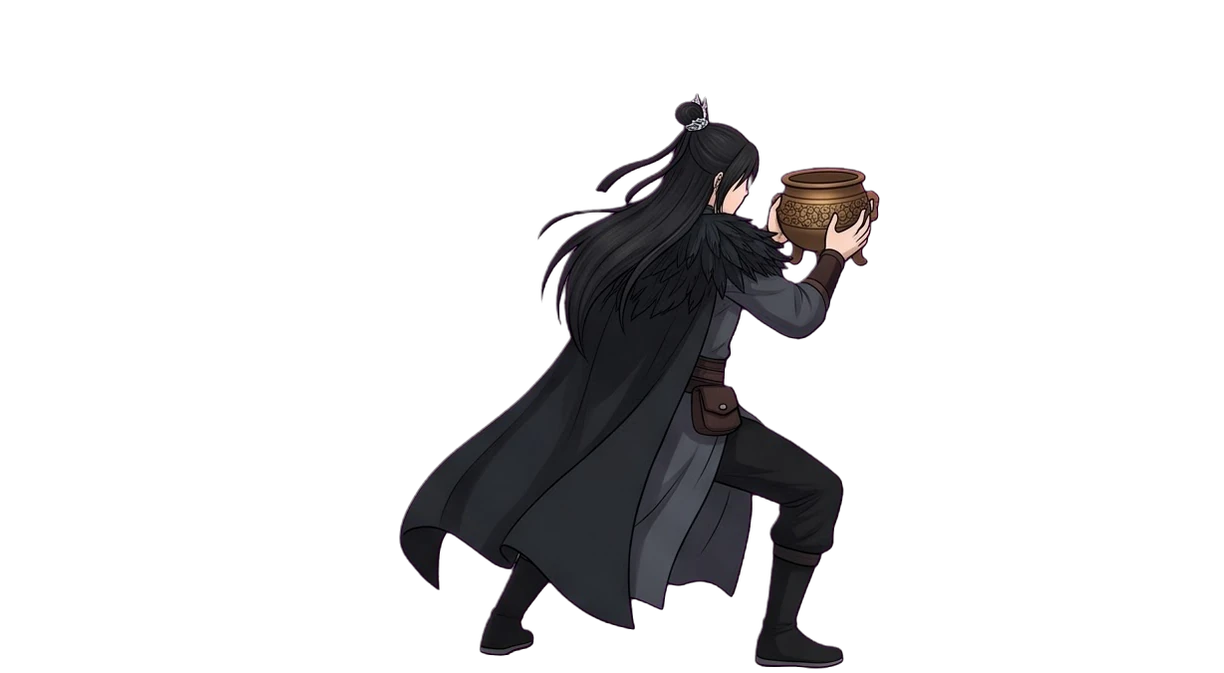
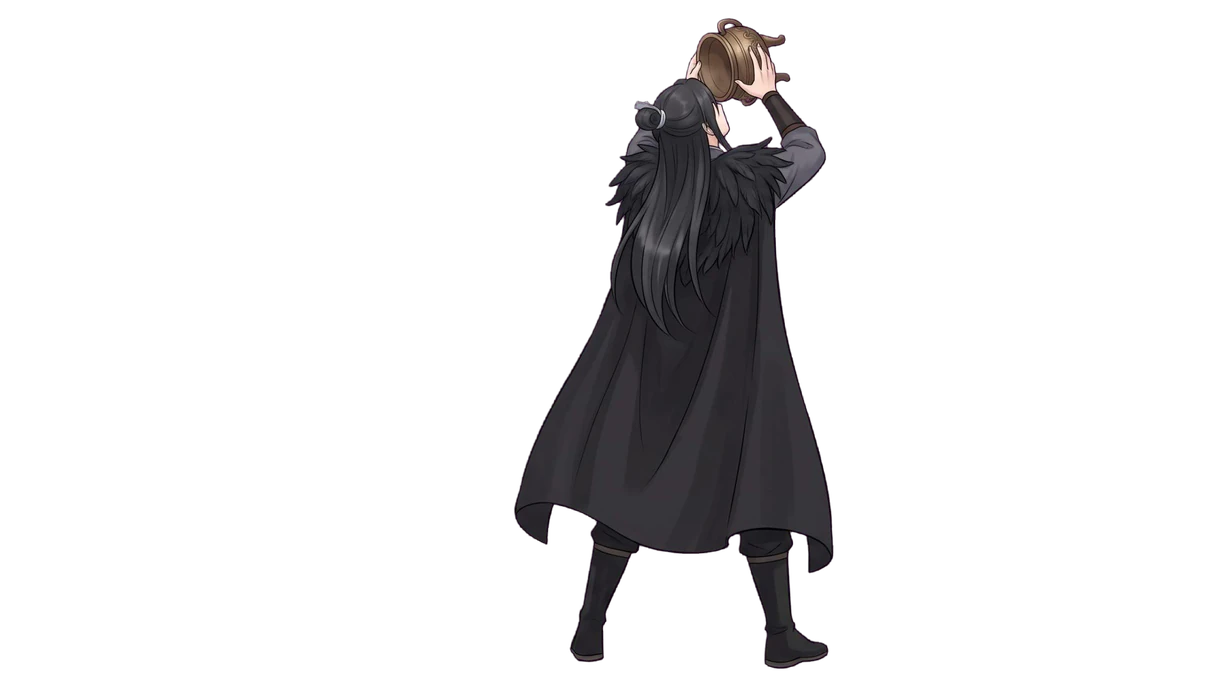
最終版152:墨羽玄袍男款流派補圖(法4、體5、丹3、丹7)
Claude-Session: https://claude.ai/code/session_01Eudv1bj25nFF4NszqJcvVs

Changed region(s): [[0.3105, 0.0312, 0.7451, 0.9985]]

diff --git a/index.html b/index.html
@@ -16447,7 +16447,7 @@ window.SFX = (() => {
 })();
 
 /* v115 主角背面戰鬥動作圖(重要戰鬥用) */
-window.BP114 = {"F_o1_1": "assets/BP/F_o1_1.webp?v=845711f1", "F_o1_2": "assets/BP/F_o1_2.webp?v=63e0ea8a", "F_o1_3": "assets/BP/F_o1_3.webp?v=4c8fedf0", "F_o1_4": "assets/BP/F_o1_4.webp?v=2d3a9938", "F_o1_5": "assets/BP/F_o1_5.webp?v=39089390", "F_o1_6": "assets/BP/F_o1_6.webp?v=665fdf49", "F_o1_7": "assets/BP/F_o1_7.webp?v=a421ed48", "F_o1_8": "assets/BP/F_o1_8.webp?v=46d02e9f", "F_o1_9": "assets/BP/F_o1_9.webp?v=71e7e51b", "F_o2_1": "assets/BP/F_o2_1.webp?v=05a69ca3", "F_o2_2": "assets/BP/F_o2_2.webp?v=b4ad1367", "F_o2_3": "assets/BP/F_o2_3.webp?v=5b5c3b9e", "F_o2_4": "assets/BP/F_o2_4.webp?v=675eb247", "F_o2_5": "assets/BP/F_o2_5.webp?v=3e6b4256", "F_o2_6": "assets/BP/F_o2_6.webp?v=a83ed8f2", "F_o2_7": "assets/BP/F_o2_7.webp?v=5385903d", "F_o2_8": "assets/BP/F_o2_8.webp?v=813db133", "F_o2_9": "assets/BP/F_o2_9.webp?v=fe97a297", "F_o3_1": "assets/BP/F_o3_1.webp?v=bb0a3107", "F_o3_2": "assets/BP/F_o3_2.webp?v=427aa689", "F_o3_3": "assets/BP/F_o3_3.webp?v=85f7357a", "F_o3_4": "assets/BP/F_o3_4.webp?v=72153950", "F_o3_5": "assets/BP/F_o3_5.webp?v=667aea18", "F_o3_6": "assets/BP/F_o3_6.webp?v=0a9314ea", "F_o3_7": "assets/BP/F_o3_7.webp?v=e8cbb446", "F_o3_8": "assets/BP/F_o3_8.webp?v=b0c55eaa", "F_o3_9": "assets/BP/F_o3_9.webp?v=72363e9e", "F_o4_1": "assets/BP/F_o4_1.webp?v=0a7498b0", "F_o4_2": "assets/BP/F_o4_2.webp?v=0d6c24b1", "F_o4_3": "assets/BP/F_o4_3.webp?v=64f0bf7d", "F_o4_4": "assets/BP/F_o4_4.webp?v=ee9cef42", "F_o4_5": "assets/BP/F_o4_5.webp?v=1df47660", "F_o4_6": "assets/BP/F_o4_6.webp?v=7e19d22c", "F_o4_7": "assets/BP/F_o4_7.webp?v=23243e00", "F_o4_8": "assets/BP/F_o4_8.webp?v=41ff7a57", "F_o4_9": "assets/BP/F_o4_9.webp?v=fdd62696", "F_o5_1": "assets/BP/F_o5_1.webp?v=1acbb409", "F_o5_2": "assets/BP/F_o5_2.webp?v=057ef934", "F_o5_3": "assets/BP/F_o5_3.webp?v=8cf69a7a", "F_o5_4": "assets/BP/F_o5_4.webp?v=83b6597d", "F_o5_5": "assets/BP/F_o5_5.webp?v=2527e5a5", "F_o5_6": "assets/BP/F_o5_6.webp?v=67d0d5f1", "F_o5_7": "assets/BP/F_o5_7.webp?v=4fe41938", "F_o5_8": "assets/BP/F_o5_8.webp?v=a7d74ed8", "F_o5_9": "assets/BP/F_o5_9.webp?v=3954470c", "M_o1_1": "assets/BP/M_o1_1.webp?v=2560faa7", "M_o1_2": "assets/BP/M_o1_2.webp?v=7ad66686", "M_o1_3": "assets/BP/M_o1_3.webp?v=49844ea7", "M_o1_4": "assets/BP/M_o1_4.webp?v=e28f9fdc", "M_o1_5": "assets/BP/M_o1_5.webp?v=b9ccd80b", "M_o1_6": "assets/BP/M_o1_6.webp?v=e9083ee8", "M_o1_7": "assets/BP/M_o1_7.webp?v=58ceecdd", "M_o1_8": "assets/BP/M_o1_8.webp?v=cfe7d049", "M_o1_9": "assets/BP/M_o1_9.webp?v=c5d17e5e", "M_o2_1": "assets/BP/M_o2_1.webp?v=a457cddd", "M_o2_2": "assets/BP/M_o2_2.webp?v=5350cd1f", "M_o2_3": "assets/BP/M_o2_3.webp?v=9923ac77", "M_o2_4": "assets/BP/M_o2_4.webp?v=54d8b4cd", "M_o2_5": "assets/BP/M_o2_5.webp?v=7b33d424", "M_o2_6": "assets/BP/M_o2_6.webp?v=99974fd4", "M_o2_7": "assets/BP/M_o2_7.webp?v=9e35d3f7", "M_o2_8": "assets/BP/M_o2_8.webp?v=010e2f77", "M_o2_9": "assets/BP/M_o2_9.webp?v=9e51febd", "M_o1_magic_1": "assets/BP/M_o1_magic_1.webp?v=9b4973c3", "M_o1_magic_2": "assets/BP/M_o1_magic_2.webp?v=b248a865", "M_o1_magic_3": "assets/BP/M_o1_magic_3.webp?v=a3cf11af", "M_o1_magic_4": "assets/BP/M_o1_magic_4.webp?v=96a407e8", "M_o1_magic_5": "assets/BP/M_o1_magic_5.webp?v=75029708", "M_o1_magic_6": "assets/BP/M_o1_magic_6.webp?v=83065bfb", "M_o1_magic_7": "assets/BP/M_o1_magic_7.webp?v=4a26d8c2", "M_o1_magic_8": "assets/BP/M_o1_magic_8.webp?v=c3b4efe4", "M_o1_magic_9": "assets/BP/M_o1_magic_9.webp?v=d9af5614", "M_o1_body_1": "assets/BP/M_o1_body_1.webp?v=51611a84", "M_o1_body_2": "assets/BP/M_o1_body_2.webp?v=fa383dad", "M_o1_body_3": "assets/BP/M_o1_body_3.webp?v=4a5a0d3d", "M_o1_body_4": "assets/BP/M_o1_body_4.webp?v=1bb56e60", "M_o1_body_5": "assets/BP/M_o1_body_5.webp?v=63e6f99e", "M_o1_body_6": "assets/BP/M_o1_body_6.webp?v=7a0c3fd8", "M_o1_body_7": "assets/BP/M_o1_body_7.webp?v=dbf44c05", "M_o1_body_8": "assets/BP/M_o1_body_8.webp?v=59010254", "M_o1_body_9": "assets/BP/M_o1_body_9.webp?v=07cc84ca", "M_o1_pill_1": "assets/BP/M_o1_pill_1.webp?v=bafb47e1", "M_o1_pill_2": "assets/BP/M_o1_pill_2.webp?v=2c96254e", "M_o1_pill_3": "assets/BP/M_o1_pill_3.webp?v=09680974", "M_o1_pill_4": "assets/BP/M_o1_pill_4.webp?v=f3386cc3", "M_o1_pill_5": "assets/BP/M_o1_pill_5.webp?v=e1a1df88", "M_o1_pill_6": "assets/BP/M_o1_pill_6.webp?v=20603365", "M_o1_pill_7": "assets/BP/M_o1_pill_7.webp?v=f39dd028", "M_o1_pill_8": "assets/BP/M_o1_pill_8.webp?v=2e37c6f2", "M_o1_pill_9": "assets/BP/M_o1_pill_9.webp?v=6862b8e0", "talisman": "assets/BP/talisman.webp?v=b202c5a1", "M_o3_magic_1": "assets/BP/M_o3_magic_1.webp?v=d2cc944c", "M_o3_magic_2": "assets/BP/M_o3_magic_2.webp?v=582713b3", "M_o3_magic_3": "assets/BP/M_o3_magic_3.webp?v=377c6326", "M_o3_magic_4": "assets/BP/M_o3_magic_4.webp?v=d2cc944c", "M_o3_magic_5": "assets/BP/M_o3_magic_5.webp?v=af7439d3", "M_o3_magic_6": "assets/BP/M_o3_magic_6.webp?v=4994442c", "M_o3_magic_7": "assets/BP/M_o3_magic_7.webp?v=c9901c96", "M_o3_magic_8": "assets/BP/M_o3_magic_8.webp?v=aae2c32a", "M_o3_magic_9": "assets/BP/M_o3_magic_9.webp?v=3520c790", "M_o3_body_1": "assets/BP/M_o3_body_1.webp?v=00c0ab0a", "M_o3_body_2": "assets/BP/M_o3_body_2.webp?v=d4fb2313", "M_o3_body_3": "assets/BP/M_o3_body_3.webp?v=0089c2ec", "M_o3_body_4": "assets/BP/M_o3_body_4.webp?v=7b83a2a6", "M_o3_body_5": "assets/BP/M_o3_body_5.webp?v=00c0ab0a", "M_o3_body_6": "assets/BP/M_o3_body_6.webp?v=5e82e1db", "M_o3_body_7": "assets/BP/M_o3_body_7.webp?v=c6d30018", "M_o3_body_8": "assets/BP/M_o3_body_8.webp?v=07320518", "M_o3_body_9": "assets/BP/M_o3_body_9.webp?v=0c717ab6", "M_o3_pill_1": "assets/BP/M_o3_pill_1.webp?v=9ecbbac6", "M_o3_pill_2": "assets/BP/M_o3_pill_2.webp?v=55782e22", "M_o3_pill_3": "assets/BP/M_o3_pill_3.webp?v=55782e22", "M_o3_pill_4": "assets/BP/M_o3_pill_4.webp?v=f3be9227", "M_o3_pill_5": "assets/BP/M_o3_pill_5.webp?v=fbad086f", "M_o3_pill_6": "assets/BP/M_o3_pill_6.webp?v=af1c5134", "M_o3_pill_7": "assets/BP/M_o3_pill_7.webp?v=fbad086f", "M_o3_pill_8": "assets/BP/M_o3_pill_8.webp?v=d57c5533", "M_o3_pill_9": "assets/BP/M_o3_pill_9.webp?v=47e784dd", "F_o2_magic_1": "assets/BP/F_o2_magic_1.webp?v=24cd2fa4", "F_o2_magic_2": "assets/BP/F_o2_magic_2.webp?v=f2cd1bd5", "F_o2_magic_3": "assets/BP/F_o2_magic_3.webp?v=6224205b", "F_o2_magic_4": "assets/BP/F_o2_magic_4.webp?v=43360528", "F_o2_magic_5": "assets/BP/F_o2_magic_5.webp?v=3762ae64", "F_o2_magic_6": "assets/BP/F_o2_magic_6.webp?v=7f830eec", "F_o2_magic_7": "assets/BP/F_o2_magic_7.webp?v=a8453654", "F_o2_magic_8": "assets/BP/F_o2_magic_8.webp?v=bc3b7450", "F_o2_magic_9": "assets/BP/F_o2_magic_9.webp?v=bcd08279", "F_o2_body_1": "assets/BP/F_o2_body_1.webp?v=5f404494", "F_o2_body_2": "assets/BP/F_o2_body_2.webp?v=2b33f179", "F_o2_body_3": "assets/BP/F_o2_body_3.webp?v=e267bb7e", "F_o2_body_4": "assets/BP/F_o2_body_4.webp?v=194f1df2", "F_o2_body_5": "assets/BP/F_o2_body_5.webp?v=16b5488b", "F_o2_body_6": "assets/BP/F_o2_body_6.webp?v=57681a8b", "F_o2_body_7": "assets/BP/F_o2_body_7.webp?v=c5d7dc68", "F_o2_body_8": "assets/BP/F_o2_body_8.webp?v=81e8ae4e", "F_o2_body_9": "assets/BP/F_o2_body_9.webp?v=be439696", "F_o2_pill_1": "assets/BP/F_o2_pill_1.webp?v=d188d30b", "F_o2_pill_2": "assets/BP/F_o2_pill_2.webp?v=aba871cb", "F_o2_pill_3": "assets/BP/F_o2_pill_3.webp?v=d0c65f52", "F_o2_pill_4": "assets/BP/F_o2_pill_4.webp?v=d20d3fed", "F_o2_pill_5": "assets/BP/F_o2_pill_5.webp?v=432f8bd7", "F_o2_pill_6": "assets/BP/F_o2_pill_6.webp?v=dc59bf32", "F_o2_pill_7": "assets/BP/F_o2_pill_7.webp?v=b4bfcd4c", "F_o2_pill_8": "assets/BP/F_o2_pill_8.webp?v=bb5c0d3f", "F_o2_pill_9": "assets/BP/F_o2_pill_9.webp?v=89d49626", "M_o2_magic_1": "assets/BP/M_o2_magic_1.webp?v=4a8fd103", "M_o2_magic_2": "assets/BP/M_o2_magic_2.webp?v=d6013535", "M_o2_magic_3": "assets/BP/M_o2_magic_3.webp?v=74a7e696", "M_o2_magic_4": "assets/BP/M_o2_magic_4.webp?v=e2f3ec60", "M_o2_magic_5": "assets/BP/M_o2_magic_5.webp?v=bae868da", "M_o2_magic_6": "assets/BP/M_o2_magic_6.webp?v=7ab92120", "M_o2_magic_7": "assets/BP/M_o2_magic_7.webp?v=78cd64ee", "M_o2_magic_8": "assets/BP/M_o2_magic_8.webp?v=55832c1b", "M_o2_magic_9": "assets/BP/M_o2_magic_9.webp?v=bc44d860", "M_o2_body_1": "assets/BP/M_o2_body_1.webp?v=484100ed", "M_o2_body_2": "assets/BP/M_o2_body_2.webp?v=7dbc0dc8", "M_o2_body_3": "assets/BP/M_o2_body_3.webp?v=711ef4b6", "M_o2_body_4": "assets/BP/M_o2_body_4.webp?v=cddb9ef8", "M_o2_body_5": "assets/BP/M_o2_body_5.webp?v=457de7b6", "M_o2_body_6": "assets/BP/M_o2_body_6.webp?v=f4b4b34c", "M_o2_body_7": "assets/BP/M_o2_body_7.webp?v=cacd31ef", "M_o2_body_8": "assets/BP/M_o2_body_8.webp?v=15455647", "M_o2_body_9": "assets/BP/M_o2_body_9.webp?v=ec410993", "M_o2_pill_1": "assets/BP/M_o2_pill_1.webp?v=9b587cbf", "M_o2_pill_2": "assets/BP/M_o2_pill_2.webp?v=22b69cdd", "M_o2_pill_3": "assets/BP/M_o2_pill_3.webp?v=5e98dcf2", "M_o2_pill_4": "assets/BP/M_o2_pill_4.webp?v=c006b548", "M_o2_pill_5": "assets/BP/M_o2_pill_5.webp?v=3cf8b6cb", "M_o2_pill_6": "assets/BP/M_o2_pill_6.webp?v=08623c24", "M_o2_pill_7": "assets/BP/M_o2_pill_7.webp?v=265186db", "M_o2_pill_8": "assets/BP/M_o2_pill_8.webp?v=fe8d85a1", "M_o2_pill_9": "assets/BP/M_o2_pill_9.webp?v=fe747ce7", "F_o1_magic_1": "assets/BP/F_o1_magic_1.webp?v=4e5f8469", "F_o1_magic_2": "assets/BP/F_o1_magic_2.webp?v=9f7adbe3", "F_o1_magic_3": "assets/BP/F_o1_magic_3.webp?v=0d4b2cfa", "F_o1_magic_4": "assets/BP/F_o1_magic_4.webp?v=921b38bf", "F_o1_magic_5": "assets/BP/F_o1_magic_5.webp?v=bb66a925", "F_o1_magic_6": "assets/BP/F_o1_magic_6.webp?v=0c679aaa", "F_o1_magic_7": "assets/BP/F_o1_magic_7.webp?v=405f2feb", "F_o1_magic_8": "assets/BP/F_o1_magic_8.webp?v=e8c2a360", "F_o1_magic_9": "assets/BP/F_o1_magic_9.webp?v=a5db0544", "F_o1_body_1": "assets/BP/F_o1_body_1.webp?v=6384018e", "F_o1_body_2": "assets/BP/F_o1_body_2.webp?v=782cd1f3", "F_o1_body_3": "assets/BP/F_o1_body_3.webp?v=c7f05cf4", "F_o1_body_4": "assets/BP/F_o1_body_4.webp?v=e5a407c6", "F_o1_body_5": "assets/BP/F_o1_body_5.webp?v=98a64082", "F_o1_body_6": "assets/BP/F_o1_body_6.webp?v=4a6a5eba", "F_o1_body_7": "assets/BP/F_o1_body_7.webp?v=207c46c0", "F_o1_body_8": "assets/BP/F_o1_body_8.webp?v=e3b18361", "F_o1_body_9": "assets/BP/F_o1_body_9.webp?v=32a5489d", "F_o1_pill_1": "assets/BP/F_o1_pill_1.webp?v=a21e1df8", "F_o1_pill_2": "assets/BP/F_o1_pill_2.webp?v=2b47f0c6", "F_o1_pill_3": "assets/BP/F_o1_pill_3.webp?v=9d137eaa", "F_o1_pill_4": "assets/BP/F_o1_pill_4.webp?v=b9398538", "F_o1_pill_5": "assets/BP/F_o1_pill_5.webp?v=dde40ab4", "F_o1_pill_6": "assets/BP/F_o1_pill_6.webp?v=2afb540c", "F_o1_pill_7": "assets/BP/F_o1_pill_7.webp?v=b9398538", "F_o1_pill_8": "assets/BP/F_o1_pill_8.webp?v=584cd597", "F_o1_pill_9": "assets/BP/F_o1_pill_9.webp?v=6e638b49", "M_mc_1": "assets/BP/M_mc_1.webp?v=03194b27", "M_mc_2": "assets/BP/M_mc_2.webp?v=1593c4a8", "M_mc_3": "assets/BP/M_mc_3.webp?v=78d98d8f", "M_mc_4": "assets/BP/M_mc_4.webp?v=11a84b65", "M_mc_5": "assets/BP/M_mc_5.webp?v=c62eccf8", "M_mc_6": "assets/BP/M_mc_6.webp?v=41750a69", "M_mc_7": "assets/BP/M_mc_7.webp?v=6e57e8e6", "M_mc_8": "assets/BP/M_mc_8.webp?v=5394f08c", "M_mc_9": "assets/BP/M_mc_9.webp?v=9cf6a34d", "M_o3_1": "assets/BP/M_o3_1.webp?v=911e0148", "M_o3_2": "assets/BP/M_o3_2.webp?v=d49ff3b7", "M_o3_3": "assets/BP/M_o3_3.webp?v=70fd962f", "M_o3_4": "assets/BP/M_o3_4.webp?v=10baf48d", "M_o3_5": "assets/BP/M_o3_5.webp?v=64e0e325", "M_o3_6": "assets/BP/M_o3_6.webp?v=c2438bd5", "M_o3_7": "assets/BP/M_o3_7.webp?v=a6ce3d23", "M_o3_8": "assets/BP/M_o3_8.webp?v=c9752f83", "M_o3_9": "assets/BP/M_o3_9.webp?v=a1af0ada", "M_o4_1": "assets/BP/M_o4_1.webp?v=43ac3c38", "M_o4_2": "assets/BP/M_o4_2.webp?v=f512e93b", "M_o4_3": "assets/BP/M_o4_3.webp?v=651f67c3", "M_o4_4": "assets/BP/M_o4_4.webp?v=5e0b1883", "M_o4_5": "assets/BP/M_o4_5.webp?v=9e77acc4", "M_o4_6": "assets/BP/M_o4_6.webp?v=6ed9a474", "M_o4_7": "assets/BP/M_o4_7.webp?v=5427d33a", "M_o4_8": "assets/BP/M_o4_8.webp?v=c0be0eb9", "M_o4_9": "assets/BP/M_o4_9.webp?v=22d5c0e4", "M_o5_1": "assets/BP/M_o5_1.webp?v=2e970d7d", "M_o5_2": "assets/BP/M_o5_2.webp?v=ded257bf", "M_o5_3": "assets/BP/M_o5_3.webp?v=4af86b3b", "M_o5_4": "assets/BP/M_o5_4.webp?v=10635597", "M_o5_5": "assets/BP/M_o5_5.webp?v=b3438832", "M_o5_6": "assets/BP/M_o5_6.webp?v=132388bd", "M_o5_7": "assets/BP/M_o5_7.webp?v=24d3b448", "M_o5_8": "assets/BP/M_o5_8.webp?v=68e0ee4d", "M_o5_9": "assets/BP/M_o5_9.webp?v=ceae38ce"};
+window.BP114 = {"F_o1_1": "assets/BP/F_o1_1.webp?v=845711f1", "F_o1_2": "assets/BP/F_o1_2.webp?v=63e0ea8a", "F_o1_3": "assets/BP/F_o1_3.webp?v=4c8fedf0", "F_o1_4": "assets/BP/F_o1_4.webp?v=2d3a9938", "F_o1_5": "assets/BP/F_o1_5.webp?v=39089390", "F_o1_6": "assets/BP/F_o1_6.webp?v=665fdf49", "F_o1_7": "assets/BP/F_o1_7.webp?v=a421ed48", "F_o1_8": "assets/BP/F_o1_8.webp?v=46d02e9f", "F_o1_9": "assets/BP/F_o1_9.webp?v=71e7e51b", "F_o2_1": "assets/BP/F_o2_1.webp?v=05a69ca3", "F_o2_2": "assets/BP/F_o2_2.webp?v=b4ad1367", "F_o2_3": "assets/BP/F_o2_3.webp?v=5b5c3b9e", "F_o2_4": "assets/BP/F_o2_4.webp?v=675eb247", "F_o2_5": "assets/BP/F_o2_5.webp?v=3e6b4256", "F_o2_6": "assets/BP/F_o2_6.webp?v=a83ed8f2", "F_o2_7": "assets/BP/F_o2_7.webp?v=5385903d", "F_o2_8": "assets/BP/F_o2_8.webp?v=813db133", "F_o2_9": "assets/BP/F_o2_9.webp?v=fe97a297", "F_o3_1": "assets/BP/F_o3_1.webp?v=bb0a3107", "F_o3_2": "assets/BP/F_o3_2.webp?v=427aa689", "F_o3_3": "assets/BP/F_o3_3.webp?v=85f7357a", "F_o3_4": "assets/BP/F_o3_4.webp?v=72153950", "F_o3_5": "assets/BP/F_o3_5.webp?v=667aea18", "F_o3_6": "assets/BP/F_o3_6.webp?v=0a9314ea", "F_o3_7": "assets/BP/F_o3_7.webp?v=e8cbb446", "F_o3_8": "assets/BP/F_o3_8.webp?v=b0c55eaa", "F_o3_9": "assets/BP/F_o3_9.webp?v=72363e9e", "F_o4_1": "assets/BP/F_o4_1.webp?v=0a7498b0", "F_o4_2": "assets/BP/F_o4_2.webp?v=0d6c24b1", "F_o4_3": "assets/BP/F_o4_3.webp?v=64f0bf7d", "F_o4_4": "assets/BP/F_o4_4.webp?v=ee9cef42", "F_o4_5": "assets/BP/F_o4_5.webp?v=1df47660", "F_o4_6": "assets/BP/F_o4_6.webp?v=7e19d22c", "F_o4_7": "assets/BP/F_o4_7.webp?v=23243e00", "F_o4_8": "assets/BP/F_o4_8.webp?v=41ff7a57", "F_o4_9": "assets/BP/F_o4_9.webp?v=fdd62696", "F_o5_1": "assets/BP/F_o5_1.webp?v=1acbb409", "F_o5_2": "assets/BP/F_o5_2.webp?v=057ef934", "F_o5_3": "assets/BP/F_o5_3.webp?v=8cf69a7a", "F_o5_4": "assets/BP/F_o5_4.webp?v=83b6597d", "F_o5_5": "assets/BP/F_o5_5.webp?v=2527e5a5", "F_o5_6": "assets/BP/F_o5_6.webp?v=67d0d5f1", "F_o5_7": "assets/BP/F_o5_7.webp?v=4fe41938", "F_o5_8": "assets/BP/F_o5_8.webp?v=a7d74ed8", "F_o5_9": "assets/BP/F_o5_9.webp?v=3954470c", "M_o1_1": "assets/BP/M_o1_1.webp?v=2560faa7", "M_o1_2": "assets/BP/M_o1_2.webp?v=7ad66686", "M_o1_3": "assets/BP/M_o1_3.webp?v=49844ea7", "M_o1_4": "assets/BP/M_o1_4.webp?v=e28f9fdc", "M_o1_5": "assets/BP/M_o1_5.webp?v=b9ccd80b", "M_o1_6": "assets/BP/M_o1_6.webp?v=e9083ee8", "M_o1_7": "assets/BP/M_o1_7.webp?v=58ceecdd", "M_o1_8": "assets/BP/M_o1_8.webp?v=cfe7d049", "M_o1_9": "assets/BP/M_o1_9.webp?v=c5d17e5e", "M_o2_1": "assets/BP/M_o2_1.webp?v=a457cddd", "M_o2_2": "assets/BP/M_o2_2.webp?v=5350cd1f", "M_o2_3": "assets/BP/M_o2_3.webp?v=9923ac77", "M_o2_4": "assets/BP/M_o2_4.webp?v=54d8b4cd", "M_o2_5": "assets/BP/M_o2_5.webp?v=7b33d424", "M_o2_6": "assets/BP/M_o2_6.webp?v=99974fd4", "M_o2_7": "assets/BP/M_o2_7.webp?v=9e35d3f7", "M_o2_8": "assets/BP/M_o2_8.webp?v=010e2f77", "M_o2_9": "assets/BP/M_o2_9.webp?v=9e51febd", "M_o1_magic_1": "assets/BP/M_o1_magic_1.webp?v=9b4973c3", "M_o1_magic_2": "assets/BP/M_o1_magic_2.webp?v=b248a865", "M_o1_magic_3": "assets/BP/M_o1_magic_3.webp?v=a3cf11af", "M_o1_magic_4": "assets/BP/M_o1_magic_4.webp?v=96a407e8", "M_o1_magic_5": "assets/BP/M_o1_magic_5.webp?v=75029708", "M_o1_magic_6": "assets/BP/M_o1_magic_6.webp?v=83065bfb", "M_o1_magic_7": "assets/BP/M_o1_magic_7.webp?v=4a26d8c2", "M_o1_magic_8": "assets/BP/M_o1_magic_8.webp?v=c3b4efe4", "M_o1_magic_9": "assets/BP/M_o1_magic_9.webp?v=d9af5614", "M_o1_body_1": "assets/BP/M_o1_body_1.webp?v=51611a84", "M_o1_body_2": "assets/BP/M_o1_body_2.webp?v=fa383dad", "M_o1_body_3": "assets/BP/M_o1_body_3.webp?v=4a5a0d3d", "M_o1_body_4": "assets/BP/M_o1_body_4.webp?v=1bb56e60", "M_o1_body_5": "assets/BP/M_o1_body_5.webp?v=63e6f99e", "M_o1_body_6": "assets/BP/M_o1_body_6.webp?v=7a0c3fd8", "M_o1_body_7": "assets/BP/M_o1_body_7.webp?v=dbf44c05", "M_o1_body_8": "assets/BP/M_o1_body_8.webp?v=59010254", "M_o1_body_9": "assets/BP/M_o1_body_9.webp?v=07cc84ca", "M_o1_pill_1": "assets/BP/M_o1_pill_1.webp?v=bafb47e1", "M_o1_pill_2": "assets/BP/M_o1_pill_2.webp?v=2c96254e", "M_o1_pill_3": "assets/BP/M_o1_pill_3.webp?v=09680974", "M_o1_pill_4": "assets/BP/M_o1_pill_4.webp?v=f3386cc3", "M_o1_pill_5": "assets/BP/M_o1_pill_5.webp?v=e1a1df88", "M_o1_pill_6": "assets/BP/M_o1_pill_6.webp?v=20603365", "M_o1_pill_7": "assets/BP/M_o1_pill_7.webp?v=f39dd028", "M_o1_pill_8": "assets/BP/M_o1_pill_8.webp?v=2e37c6f2", "M_o1_pill_9": "assets/BP/M_o1_pill_9.webp?v=6862b8e0", "talisman": "assets/BP/talisman.webp?v=b202c5a1", "M_o3_magic_1": "assets/BP/M_o3_magic_1.webp?v=d2cc944c", "M_o3_magic_2": "assets/BP/M_o3_magic_2.webp?v=582713b3", "M_o3_magic_3": "assets/BP/M_o3_magic_3.webp?v=377c6326", "M_o3_magic_4": "assets/BP/M_o3_magic_4.webp?v=d7cb5ba6", "M_o3_magic_5": "assets/BP/M_o3_magic_5.webp?v=af7439d3", "M_o3_magic_6": "assets/BP/M_o3_magic_6.webp?v=4994442c", "M_o3_magic_7": "assets/BP/M_o3_magic_7.webp?v=c9901c96", "M_o3_magic_8": "assets/BP/M_o3_magic_8.webp?v=aae2c32a", "M_o3_magic_9": "assets/BP/M_o3_magic_9.webp?v=3520c790", "M_o3_body_1": "assets/BP/M_o3_body_1.webp?v=00c0ab0a", "M_o3_body_2": "assets/BP/M_o3_body_2.webp?v=d4fb2313", "M_o3_body_3": "assets/BP/M_o3_body_3.webp?v=0089c2ec", "M_o3_body_4": "assets/BP/M_o3_body_4.webp?v=7b83a2a6", "M_o3_body_5": "assets/BP/M_o3_body_5.webp?v=9e9b5ba7", "M_o3_body_6": "assets/BP/M_o3_body_6.webp?v=5e82e1db", "M_o3_body_7": "assets/BP/M_o3_body_7.webp?v=c6d30018", "M_o3_body_8": "assets/BP/M_o3_body_8.webp?v=07320518", "M_o3_body_9": "assets/BP/M_o3_body_9.webp?v=0c717ab6", "M_o3_pill_1": "assets/BP/M_o3_pill_1.webp?v=9ecbbac6", "M_o3_pill_2": "assets/BP/M_o3_pill_2.webp?v=55782e22", "M_o3_pill_3": "assets/BP/M_o3_pill_3.webp?v=866a2f16", "M_o3_pill_4": "assets/BP/M_o3_pill_4.webp?v=f3be9227", "M_o3_pill_5": "assets/BP/M_o3_pill_5.webp?v=fbad086f", "M_o3_pill_6": "assets/BP/M_o3_pill_6.webp?v=af1c5134", "M_o3_pill_7": "assets/BP/M_o3_pill_7.webp?v=841769df", "M_o3_pill_8": "assets/BP/M_o3_pill_8.webp?v=d57c5533", "M_o3_pill_9": "assets/BP/M_o3_pill_9.webp?v=47e784dd", "F_o2_magic_1": "assets/BP/F_o2_magic_1.webp?v=24cd2fa4", "F_o2_magic_2": "assets/BP/F_o2_magic_2.webp?v=f2cd1bd5", "F_o2_magic_3": "assets/BP/F_o2_magic_3.webp?v=6224205b", "F_o2_magic_4": "assets/BP/F_o2_magic_4.webp?v=43360528", "F_o2_magic_5": "assets/BP/F_o2_magic_5.webp?v=3762ae64", "F_o2_magic_6": "assets/BP/F_o2_magic_6.webp?v=7f830eec", "F_o2_magic_7": "assets/BP/F_o2_magic_7.webp?v=a8453654", "F_o2_magic_8": "assets/BP/F_o2_magic_8.webp?v=bc3b7450", "F_o2_magic_9": "assets/BP/F_o2_magic_9.webp?v=bcd08279", "F_o2_body_1": "assets/BP/F_o2_body_1.webp?v=5f404494", "F_o2_body_2": "assets/BP/F_o2_body_2.webp?v=2b33f179", "F_o2_body_3": "assets/BP/F_o2_body_3.webp?v=e267bb7e", "F_o2_body_4": "assets/BP/F_o2_body_4.webp?v=194f1df2", "F_o2_body_5": "assets/BP/F_o2_body_5.webp?v=16b5488b", "F_o2_body_6": "assets/BP/F_o2_body_6.webp?v=57681a8b", "F_o2_body_7": "assets/BP/F_o2_body_7.webp?v=c5d7dc68", "F_o2_body_8": "assets/BP/F_o2_body_8.webp?v=81e8ae4e", "F_o2_body_9": "assets/BP/F_o2_body_9.webp?v=be439696", "F_o2_pill_1": "assets/BP/F_o2_pill_1.webp?v=d188d30b", "F_o2_pill_2": "assets/BP/F_o2_pill_2.webp?v=aba871cb", "F_o2_pill_3": "assets/BP/F_o2_pill_3.webp?v=d0c65f52", "F_o2_pill_4": "assets/BP/F_o2_pill_4.webp?v=d20d3fed", "F_o2_pill_5": "assets/BP/F_o2_pill_5.webp?v=432f8bd7", "F_o2_pill_6": "assets/BP/F_o2_pill_6.webp?v=dc59bf32", "F_o2_pill_7": "assets/BP/F_o2_pill_7.webp?v=b4bfcd4c", "F_o2_pill_8": "assets/BP/F_o2_pill_8.webp?v=bb5c0d3f", "F_o2_pill_9": "assets/BP/F_o2_pill_9.webp?v=89d49626", "M_o2_magic_1": "assets/BP/M_o2_magic_1.webp?v=4a8fd103", "M_o2_magic_2": "assets/BP/M_o2_magic_2.webp?v=d6013535", "M_o2_magic_3": "assets/BP/M_o2_magic_3.webp?v=74a7e696", "M_o2_magic_4": "assets/BP/M_o2_magic_4.webp?v=e2f3ec60", "M_o2_magic_5": "assets/BP/M_o2_magic_5.webp?v=bae868da", "M_o2_magic_6": "assets/BP/M_o2_magic_6.webp?v=7ab92120", "M_o2_magic_7": "assets/BP/M_o2_magic_7.webp?v=78cd64ee", "M_o2_magic_8": "assets/BP/M_o2_magic_8.webp?v=55832c1b", "M_o2_magic_9": "assets/BP/M_o2_magic_9.webp?v=bc44d860", "M_o2_body_1": "assets/BP/M_o2_body_1.webp?v=484100ed", "M_o2_body_2": "assets/BP/M_o2_body_2.webp?v=7dbc0dc8", "M_o2_body_3": "assets/BP/M_o2_body_3.webp?v=711ef4b6", "M_o2_body_4": "assets/BP/M_o2_body_4.webp?v=cddb9ef8", "M_o2_body_5": "assets/BP/M_o2_body_5.webp?v=457de7b6", "M_o2_body_6": "assets/BP/M_o2_body_6.webp?v=f4b4b34c", "M_o2_body_7": "assets/BP/M_o2_body_7.webp?v=cacd31ef", "M_o2_body_8": "assets/BP/M_o2_body_8.webp?v=15455647", "M_o2_body_9": "assets/BP/M_o2_body_9.webp?v=ec410993", "M_o2_pill_1": "assets/BP/M_o2_pill_1.webp?v=9b587cbf", "M_o2_pill_2": "assets/BP/M_o2_pill_2.webp?v=22b69cdd", "M_o2_pill_3": "assets/BP/M_o2_pill_3.webp?v=5e98dcf2", "M_o2_pill_4": "assets/BP/M_o2_pill_4.webp?v=c006b548", "M_o2_pill_5": "assets/BP/M_o2_pill_5.webp?v=3cf8b6cb", "M_o2_pill_6": "assets/BP/M_o2_pill_6.webp?v=08623c24", "M_o2_pill_7": "assets/BP/M_o2_pill_7.webp?v=265186db", "M_o2_pill_8": "assets/BP/M_o2_pill_8.webp?v=fe8d85a1", "M_o2_pill_9": "assets/BP/M_o2_pill_9.webp?v=fe747ce7", "F_o1_magic_1": "assets/BP/F_o1_magic_1.webp?v=4e5f8469", "F_o1_magic_2": "assets/BP/F_o1_magic_2.webp?v=9f7adbe3", "F_o1_magic_3": "assets/BP/F_o1_magic_3.webp?v=0d4b2cfa", "F_o1_magic_4": "assets/BP/F_o1_magic_4.webp?v=921b38bf", "F_o1_magic_5": "assets/BP/F_o1_magic_5.webp?v=bb66a925", "F_o1_magic_6": "assets/BP/F_o1_magic_6.webp?v=0c679aaa", "F_o1_magic_7": "assets/BP/F_o1_magic_7.webp?v=405f2feb", "F_o1_magic_8": "assets/BP/F_o1_magic_8.webp?v=e8c2a360", "F_o1_magic_9": "assets/BP/F_o1_magic_9.webp?v=a5db0544", "F_o1_body_1": "assets/BP/F_o1_body_1.webp?v=6384018e", "F_o1_body_2": "assets/BP/F_o1_body_2.webp?v=782cd1f3", "F_o1_body_3": "assets/BP/F_o1_body_3.webp?v=c7f05cf4", "F_o1_body_4": "assets/BP/F_o1_body_4.webp?v=e5a407c6", "F_o1_body_5": "assets/BP/F_o1_body_5.webp?v=98a64082", "F_o1_body_6": "assets/BP/F_o1_body_6.webp?v=4a6a5eba", "F_o1_body_7": "assets/BP/F_o1_body_7.webp?v=207c46c0", "F_o1_body_8": "assets/BP/F_o1_body_8.webp?v=e3b18361", "F_o1_body_9": "assets/BP/F_o1_body_9.webp?v=32a5489d", "F_o1_pill_1": "assets/BP/F_o1_pill_1.webp?v=a21e1df8", "F_o1_pill_2": "assets/BP/F_o1_pill_2.webp?v=2b47f0c6", "F_o1_pill_3": "assets/BP/F_o1_pill_3.webp?v=9d137eaa", "F_o1_pill_4": "assets/BP/F_o1_pill_4.webp?v=b9398538", "F_o1_pill_5": "assets/BP/F_o1_pill_5.webp?v=dde40ab4", "F_o1_pill_6": "assets/BP/F_o1_pill_6.webp?v=2afb540c", "F_o1_pill_7": "assets/BP/F_o1_pill_7.webp?v=b9398538", "F_o1_pill_8": "assets/BP/F_o1_pill_8.webp?v=584cd597", "F_o1_pill_9": "assets/BP/F_o1_pill_9.webp?v=6e638b49", "M_mc_1": "assets/BP/M_mc_1.webp?v=03194b27", "M_mc_2": "assets/BP/M_mc_2.webp?v=1593c4a8", "M_mc_3": "assets/BP/M_mc_3.webp?v=78d98d8f", "M_mc_4": "assets/BP/M_mc_4.webp?v=11a84b65", "M_mc_5": "assets/BP/M_mc_5.webp?v=c62eccf8", "M_mc_6": "assets/BP/M_mc_6.webp?v=41750a69", "M_mc_7": "assets/BP/M_mc_7.webp?v=6e57e8e6", "M_mc_8": "assets/BP/M_mc_8.webp?v=5394f08c", "M_mc_9": "assets/BP/M_mc_9.webp?v=9cf6a34d", "M_o3_1": "assets/BP/M_o3_1.webp?v=911e0148", "M_o3_2": "assets/BP/M_o3_2.webp?v=d49ff3b7", "M_o3_3": "assets/BP/M_o3_3.webp?v=70fd962f", "M_o3_4": "assets/BP/M_o3_4.webp?v=10baf48d", "M_o3_5": "assets/BP/M_o3_5.webp?v=64e0e325", "M_o3_6": "assets/BP/M_o3_6.webp?v=c2438bd5", "M_o3_7": "assets/BP/M_o3_7.webp?v=a6ce3d23", "M_o3_8": "assets/BP/M_o3_8.webp?v=c9752f83", "M_o3_9": "assets/BP/M_o3_9.webp?v=a1af0ada", "M_o4_1": "assets/BP/M_o4_1.webp?v=43ac3c38", "M_o4_2": "assets/BP/M_o4_2.webp?v=f512e93b", "M_o4_3": "assets/BP/M_o4_3.webp?v=651f67c3", "M_o4_4": "assets/BP/M_o4_4.webp?v=5e0b1883", "M_o4_5": "assets/BP/M_o4_5.webp?v=9e77acc4", "M_o4_6": "assets/BP/M_o4_6.webp?v=6ed9a474", "M_o4_7": "assets/BP/M_o4_7.webp?v=5427d33a", "M_o4_8": "assets/BP/M_o4_8.webp?v=c0be0eb9", "M_o4_9": "assets/BP/M_o4_9.webp?v=22d5c0e4", "M_o5_1": "assets/BP/M_o5_1.webp?v=2e970d7d", "M_o5_2": "assets/BP/M_o5_2.webp?v=ded257bf", "M_o5_3": "assets/BP/M_o5_3.webp?v=4af86b3b", "M_o5_4": "assets/BP/M_o5_4.webp?v=10635597", "M_o5_5": "assets/BP/M_o5_5.webp?v=b3438832", "M_o5_6": "assets/BP/M_o5_6.webp?v=132388bd", "M_o5_7": "assets/BP/M_o5_7.webp?v=24d3b448", "M_o5_8": "assets/BP/M_o5_8.webp?v=68e0ee4d", "M_o5_9": "assets/BP/M_o5_9.webp?v=ceae38ce"};
 window.C1IMG = {"kid_M_1": "assets/C1/kid_M_1.webp?v=d8b61bad", "kid_M_2": "assets/C1/kid_M_2.webp?v=223ee593", "kid_M_3": "assets/C1/kid_M_3.webp?v=5881eb61", "kid_M_4": "assets/C1/kid_M_4.webp?v=061ca303", "kid_M_5": "assets/C1/kid_M_5.webp?v=87fac5f2", "kid_M_6": "assets/C1/kid_M_6.webp?v=58e7c5d9", "kid_F_1": "assets/C1/kid_F_1.webp?v=0c6439db", "kid_F_2": "assets/C1/kid_F_2.webp?v=42142772", "kid_F_3": "assets/C1/kid_F_3.webp?v=24b658a1", "kid_F_4": "assets/C1/kid_F_4.webp?v=c366863a", "kid_F_5": "assets/C1/kid_F_5.webp?v=db0ce5f8", "kid_F_6": "assets/C1/kid_F_6.webp?v=a9f5b729", "kidcp_M_n": "assets/C1/kidcp_M_n.webp?v=521f3561", "kidcp_M_h": "assets/C1/kidcp_M_h.webp?v=cd1e3df5", "kidcp_F_n": "assets/C1/kidcp_F_n.webp?v=3bea50cb", "kidcp_F_h": "assets/C1/kidcp_F_h.webp?v=f98fb38f", "mocp_n": "assets/C1/mocp_n.webp?v=78c3ae52", "mouc": "assets/C1/mouc.webp?v=7543f376"};
 
 /* v122 本命絕學過場特寫 */
@@ -16499,7 +16499,7 @@ window.QT124 = {"dot": "assets/QT/dot.webp?v=beeeb71c", "tg": "assets/QT/tg.webp
   const pose = n => (B && B.A && B.A.pose && B.A.pose(n)) || BPX[pkey(n)] || '';
   const ATKN = () => (B && B.A && B.A.atk) || ({ sword: ['仙劍普攻', '看準時機・最多三連斬'], magic: ['飛符術', '看準時機・最多三張連發'], body: ['崩山拳', '看準時機・最多三連擊'], pill: ['丹爐撞擊', '看準時機・最多三連擊'] })[STY()];
   /* 各出招動作的「劍尖附近」在圖框內的位置(由圖自動量出;其他外觀暫用新手服的值) */
-  const TIPS = { F_o1_2: [.906, .191], F_o1_3: [.776, .413], F_o1_8: [.965, .038], M_o1_2: [.82, .533], M_o1_3: [.702, .144], M_o1_8: [.966, .053], M_o2_2: [.942, .207], M_o2_3: [.584, .263], M_o2_8: [.998, .107], M_o3_2: [.949, .198], M_o3_3: [.618, .257], M_o3_8: [.998, .098], M_o4_2: [.949, .199], M_o4_3: [.588, .257], M_o4_8: [.998, .095], M_o5_2: [.948, .199], M_o5_3: [.619, .26], M_o5_8: [.998, .097], F_o1_magic_2: [.8, .149], F_o1_magic_3: [.652, .173], F_o1_magic_8: [.739, .065], F_o1_body_2: [.741, .293], F_o1_body_3: [.744, .299], F_o1_body_8: [.739, .412], F_o1_pill_2: [.848, .387], F_o1_pill_3: [.753, .262], F_o1_pill_8: [.871, .198], M_o2_magic_2: [.825, .18], M_o2_magic_3: [.593, .155], M_o2_magic_8: [.783, .293], M_o2_body_2: [.764, .266], M_o2_body_3: [.707, .245], M_o2_body_8: [.713, .45], M_o2_pill_2: [.82, .346], M_o2_pill_3: [.756, .224], M_o2_pill_8: [.85, .254], F_o2_magic_2: [.862, .174], F_o2_magic_3: [.832, .04], F_o2_magic_8: [.778, .097], F_o2_body_2: [.743, .238], F_o2_body_3: [.744, .198], F_o2_body_8: [.706, .35], F_o2_pill_2: [.775, .323], F_o2_pill_3: [.768, .177], F_o2_pill_8: [.813, .211], M_o3_magic_2: [.87, .227], M_o3_magic_3: [.699, .092], M_o3_magic_8: [.748, .04], M_o3_body_2: [.766, .264], M_o3_body_3: [.73, .204], M_o3_body_8: [.712, .35], M_o3_pill_2: [.882, .318], M_o3_pill_3: [.882, .318], M_o3_pill_8: [.886, .221], M_o1_magic_2: [.798, .232], M_o1_magic_3: [.763, .143], M_o1_magic_8: [.825, .051], M_o1_body_2: [.77, .235], M_o1_body_3: [.727, .199], M_o1_body_8: [.716, .386], M_o1_pill_2: [.795, .322], M_o1_pill_3: [.729, .202], M_o1_pill_8: [.835, .245], F_o2_2: [.969, .167], F_o2_3: [.546, .39], F_o2_8: [.421, .208], F_o3_2: [.968, .167], F_o3_3: [.548, .39], F_o3_8: [.421, .208], F_o4_2: [.967, .168], F_o4_3: [.546, .39], F_o4_8: [.421, .208], F_o5_2: [.981, .168], F_o5_3: [.548, .39], F_o5_8: [.421, .208] };
+  const TIPS = { F_o1_2: [.906, .191], F_o1_3: [.776, .413], F_o1_8: [.965, .038], M_o1_2: [.82, .533], M_o1_3: [.702, .144], M_o1_8: [.966, .053], M_o2_2: [.942, .207], M_o2_3: [.584, .263], M_o2_8: [.998, .107], M_o3_2: [.949, .198], M_o3_3: [.618, .257], M_o3_8: [.998, .098], M_o4_2: [.949, .199], M_o4_3: [.588, .257], M_o4_8: [.998, .095], M_o5_2: [.948, .199], M_o5_3: [.619, .26], M_o5_8: [.998, .097], F_o1_magic_2: [.8, .149], F_o1_magic_3: [.652, .173], F_o1_magic_8: [.739, .065], F_o1_body_2: [.741, .293], F_o1_body_3: [.744, .299], F_o1_body_8: [.739, .412], F_o1_pill_2: [.848, .387], F_o1_pill_3: [.753, .262], F_o1_pill_8: [.871, .198], M_o2_magic_2: [.825, .18], M_o2_magic_3: [.593, .155], M_o2_magic_8: [.783, .293], M_o2_body_2: [.764, .266], M_o2_body_3: [.707, .245], M_o2_body_8: [.713, .45], M_o2_pill_2: [.82, .346], M_o2_pill_3: [.756, .224], M_o2_pill_8: [.85, .254], F_o2_magic_2: [.862, .174], F_o2_magic_3: [.832, .04], F_o2_magic_8: [.778, .097], F_o2_body_2: [.743, .238], F_o2_body_3: [.744, .198], F_o2_body_8: [.706, .35], F_o2_pill_2: [.775, .323], F_o2_pill_3: [.768, .177], F_o2_pill_8: [.813, .211], M_o3_magic_2: [.87, .227], M_o3_magic_3: [.699, .092], M_o3_magic_8: [.748, .04], M_o3_body_2: [.766, .264], M_o3_body_3: [.73, .204], M_o3_body_8: [.712, .35], M_o3_pill_2: [.882, .318], M_o3_pill_3: [.702, .205], M_o3_pill_8: [.886, .221], M_o1_magic_2: [.798, .232], M_o1_magic_3: [.763, .143], M_o1_magic_8: [.825, .051], M_o1_body_2: [.77, .235], M_o1_body_3: [.727, .199], M_o1_body_8: [.716, .386], M_o1_pill_2: [.795, .322], M_o1_pill_3: [.729, .202], M_o1_pill_8: [.835, .245], F_o2_2: [.969, .167], F_o2_3: [.546, .39], F_o2_8: [.421, .208], F_o3_2: [.968, .167], F_o3_3: [.548, .39], F_o3_8: [.421, .208], F_o4_2: [.967, .168], F_o4_3: [.546, .39], F_o4_8: [.421, .208], F_o5_2: [.981, .168], F_o5_3: [.548, .39], F_o5_8: [.421, .208] };
   const tip = n => { if (B && B.A && B.A.tip) return B.A.tip(n); const g = state.gender === 'f' ? 'F_' : 'M_'; return TIPS[pkey(n)] || TIPS[g + (state.look || 'o1') + '_' + n] || TIPS[g + 'o1_' + n] || [.6, .35]; };
   const ULTC = { '一劍青雲': '#d9f3ff', '劍氣縱橫': '#bfe3ff', '五行法陣': '#c4b5fd', '金身怒目': '#fcd34d', '丹爐煉化': '#fb923c' };
   let poseT = 0;
